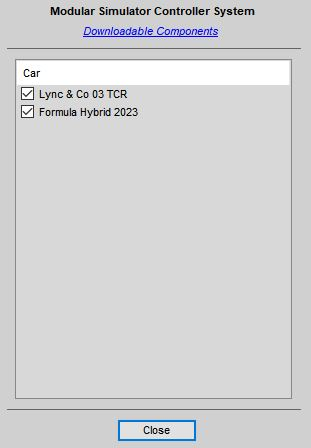
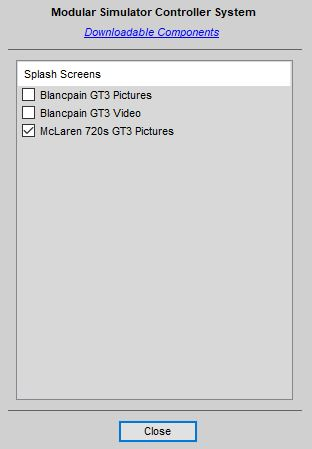
Downloadable splash screens Part 3

Changed region(s): [[0.0289, 0.0, 0.955, 0.9062], [0.3762, 0.9375, 0.6367, 1.0]]

diff --git a/Docs/Installation & Configuration.md b/Docs/Installation & Configuration.md
@@ -184,7 +184,7 @@ Replace *X* with the number of the page you want to jump to on startup. As an al
 
 You will also find a couple of packages in the list of available presets for the so called search images, which are used by Simulator Controller to *understand* the state and available option in the Pitstop MFD *RaceRoom Racing Experience*. Detailed instructions for these search images can be found in the documentation for the [*RaceRoom Racing Experience* plugin](https://github.com/SeriousOldMan/Simulator-Controller/wiki/Plugins-&-Modes#important-preparation-for-the-pitstop-mfd-handling-1). The same applies here: If you don't find your specific language and/or screen resolution here, start with one which fits best and apply your changes afterwards.
 
-Most presets must simply be moved to the right list to become active. But there are also presets, that require you to give additional information. These presets must be double-clicked to open up an additional window, which let you choose more preset specific options, like the preset for downloadable meta data for additional cars in *Assetto Corsa*:
+Most presets must simply be moved to the right list to become active. But there are also presets, that require you to give additional information. These presets must be double-clicked to open up an additional window, which let you choose more preset specific options, like the preset for downloadable media files for additional splash screens:
 
 ![](https://github.com/SeriousOldMan/Simulator-Controller/blob/main/Docs/Images/Setup%204.JPG)
 

diff --git a/Docs/Updates.md b/Docs/Updates.md
@@ -37,7 +37,9 @@ Note: Some of you might want to have more control. No problem. All the files in 
 
 ## Release 5.5.7
 
-This release comes with a new version of the Team Server with some minor fixes. Although it will be compatible with the current release, I recommend updating your installation, if you are running your own Team Server. Database files are compatible.
+The splash screen media has been made a downloadable component. You may want to check your splash screen settings, if you have used some of the formerly builtin splash screens. If your preferred splash screen is missing, use "Simlator Setup" to download the required media files.
+
+This release also comes with a new version of the Team Server with some minor fixes. Although it will be compatible with the current release, I recommend updating your installation, if you are running your own Team Server. Database files are compatible.
 
 ***
 
